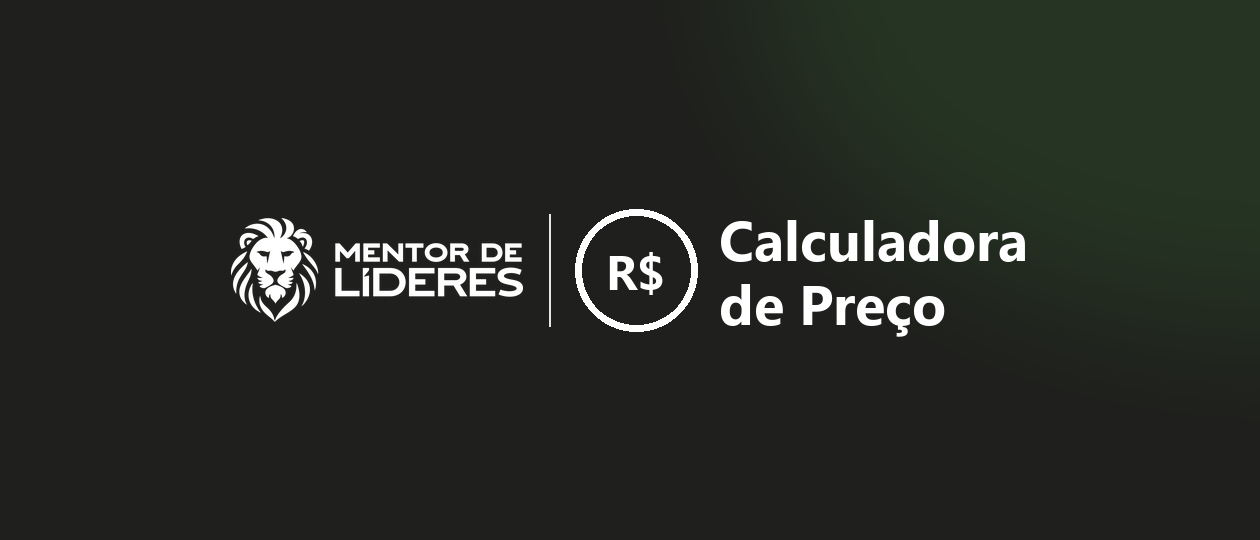
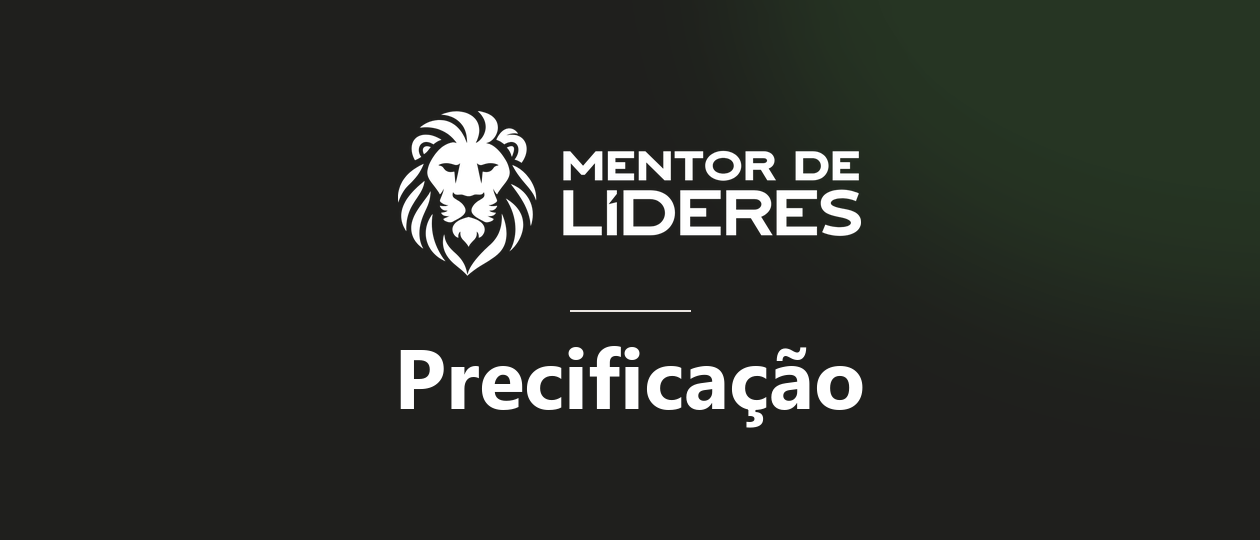
Precificação: novo nome da calculadora de preço e capa vertical sem o R$ (pedido do Carlos)

Changed region(s): [[0.1857, 0.2074, 0.8357, 0.8]]

diff --git a/preco.html b/preco.html
@@ -3,7 +3,7 @@
 <head>
 <meta charset="utf-8">
 <meta name="viewport" content="width=device-width,initial-scale=1,viewport-fit=cover">
-<title>Calculadora de preço · Mentor de Líderes</title>
+<title>Precificação · Mentor de Líderes</title>
 <meta name="claude:viewport-fit-sides" content="cover">
 <link rel="preconnect" href="https://fonts.googleapis.com">
 <link rel="preconnect" href="https://fonts.gstatic.com" crossorigin>
@@ -660,7 +660,7 @@ function htmlComo(){
       '<div class="lin"><span>Quanto cobra hoje</span><b>R$ 4.000</b></div>'+
       '<div class="lin"><span>O que vende e para quem: mentoria para produtores (pequena empresa)</span><b>régua R$ 3 a 63 mil</b></div></div>'+
     '<div class="seta" aria-hidden="true">→</div>'+
-    '<div class="passo"><div class="pn">2</div><div class="pt">A calculadora faz a conta</div>'+
+    '<div class="passo"><div class="pn">2</div><div class="pt">A ferramenta faz a conta</div>'+
       '<div class="lin"><span>10 pontos = valor visível, ponto da régua</span><b>R$ 21.700</b></div>'+
       '<div class="lin"><span>Sua hora pelo mercado, no seu nível</span><b>R$ 670</b></div>'+
       '<div class="lin"><span>Mínimo: 12 h × R$ 670 ÷ 0,77</span><b>R$ 10.500</b></div></div>'+
@@ -674,7 +674,7 @@ function htmlComo(){
 function telaCapa(){
   if(!TURMA){ telaSemTurma(); return; }
   app.innerHTML='<div class="tela">'+
-  '<p class="eyebrow">Mentor de Líderes · calculadora de preço</p>'+
+  '<p class="eyebrow">Mentor de Líderes · precificação</p>'+
   '<h1 class="titulo">Quanto vale o que você já construiu</h1>'+
   '<div class="serve">'+
     '<div class="sv"><span class="k">Objetivo</span><span class="v">Mostrar, com fatos, quanto vale o que você já construiu e transformar isso no preço da sua mentoria.</span></div>'+
@@ -688,7 +688,7 @@ function telaCapa(){
   '<label class="rot" for="f-nome">Seu nome completo</label><input class="campo" id="f-nome" autocomplete="name" placeholder="João da Silva" value="'+esc(ident.nome)+'"><p class="erro c" id="e-nome"></p>'+
   '<label class="rot" for="f-zap">Seu WhatsApp com DDD</label><input class="campo" id="f-zap" type="tel" inputmode="tel" autocomplete="tel" placeholder="(11) 99999-9999" value="'+esc(ident.zap)+'"><p class="zap-dica" id="d-zap">Cada WhatsApp faz o teste uma vez nesta turma.</p><p class="erro c" id="e-zap"></p>'+
   '<label class="rot" for="f-prod">Nome da sua mentoria ou produto <span>(opcional)</span></label><input class="campo" id="f-prod" placeholder="Mentoria Produtor Lucrativo" value="'+esc(s.exemplo?'':s.prodNome)+'">'+
-  '<label class="consent" for="f-consent"><input type="checkbox" id="f-consent"><span>Concordo que a equipe do Mentor de Líderes guarde minhas respostas e meu WhatsApp para melhorar esta calculadora e acompanhar meu plano. Não guardamos CPF nem faturamento.</span></label><p class="erro c" id="e-consent"></p>'+
+  '<label class="consent" for="f-consent"><input type="checkbox" id="f-consent"><span>Concordo que a equipe do Mentor de Líderes guarde minhas respostas e meu WhatsApp para melhorar esta ferramenta e acompanhar meu plano. Não guardamos CPF nem faturamento.</span></label><p class="erro c" id="e-consent"></p>'+
   '<button class="btn lg" id="b-comecar">Começar</button><div id="cx-espera"></div>'+
   '<button class="exemplo" id="b-exemplo"><span class="k">Ver o exemplo do João completo</span><span class="t">Mentoria para produtores rurais</span><span class="d">Cobra R$ 4.000; o que construiu vale <b>R$ 21.900</b></span></button>'+
   '</div>';
@@ -741,16 +741,16 @@ function barra(msg,pct){ return '<div class="pdfp" role="status"><div class="st"
 
 function telaSemTurma(){
   vista='capa';
-  app.innerHTML='<div class="tela"><p class="eyebrow">Mentor de Líderes · calculadora de preço</p>'+
+  app.innerHTML='<div class="tela"><p class="eyebrow">Mentor de Líderes · precificação</p>'+
     '<h1 class="titulo">Este link precisa vir da equipe do Mentor de Líderes</h1>'+
-    '<p class="contexto">Peça à equipe o link da sua turma para fazer a calculadora.</p>'+
+    '<p class="contexto">Peça à equipe o link da sua turma para fazer a precificação.</p>'+
     '</div>';
 }
 function telaAviso(t,d,b){
   avisoAtual={t:t,d:d,b:b||''}; vista='aviso'; telaAvisoAtual();
 }
 function telaAvisoAtual(){
-  app.innerHTML='<div class="tela"><p class="eyebrow">'+(MODO_VER?'Visão da equipe':'Mentor de Líderes · calculadora de preço')+'</p>'+
+  app.innerHTML='<div class="tela"><p class="eyebrow">'+(MODO_VER?'Visão da equipe':'Mentor de Líderes · precificação')+'</p>'+
     '<h1 class="enunciado">'+esc(avisoAtual.t)+'</h1>'+(avisoAtual.d?'<p class="contexto">'+esc(avisoAtual.d)+'</p>':'')+
     (avisoAtual.b?'<div class="acoes" style="margin-top:22px">'+avisoAtual.b+'</div>':'')+'</div>';
   var b=document.getElementById('b-de-novo'); if(b&&avisoAtual.fn) b.onclick=avisoAtual.fn;
@@ -758,7 +758,7 @@ function telaAvisoAtual(){
 function telaJaFez(){
   var q=ident.jaFez?fmtData(ident.jaFez):'';
   vista='jafez';
-  app.innerHTML='<div class="tela"><p class="eyebrow">Mentor de Líderes · calculadora de preço</p>'+
+  app.innerHTML='<div class="tela"><p class="eyebrow">Mentor de Líderes · precificação</p>'+
     '<h1 class="enunciado">Você já fez este teste nesta turma'+(q?' em '+esc(q):'')+'.</h1>'+
     '<p class="contexto">Para refazer, fale com a equipe.</p>'+
     '<div class="acoes" style="margin-top:22px"><button class="btn ghost" id="b-voltar-capa">Voltar</button></div></div>';
@@ -853,7 +853,7 @@ async function abrirVer(pin,auto){
   guardarPin(pin);
   telaEspera('Montando a devolutiva',80); await pausa();
   var c=linha&&linha.carga;
-  if(!cargaValida(c)){ telaAviso('Esta resposta não pode ser aberta aqui','Ela foi gravada num formato que esta página não lê. Fale com quem cuida da calculadora.'); return; }
+  if(!cargaValida(c)){ telaAviso('Esta resposta não pode ser aberta aqui','Ela foi gravada num formato que esta página não lê. Fale com a equipe do Mentor de Líderes.'); return; }
   s=Object.assign(novo(),c); delete s.v; s.nome=c.nome||linha.nome||''; s.exemplo=false;
   verInfo={id:linha.id,turma:linha.turma||'',quando:fmtData(linha.criado_em)};
   vista='resultado'; desenhar(); window.scrollTo(0,0);
@@ -927,7 +927,7 @@ function telaVenda(){
 function telaTempo(){
   var enc=[1,2,3,4,6,8,12,24], dur=[1,1.5,2,3,4,8], ext=[0,1,2,5,10];
   var g=ehGrupo(), revisita=s.encontros&&s.duracao&&s.extra!=null;
-  app.innerHTML='<div class="tela">'+cabecalho()+'<h1 class="enunciado">Quanto tempo seu o cliente recebe?</h1><p class="contexto">'+(g?'Conte o tempo da turma inteira. A calculadora divide pelo número de pessoas.':'Escolha em ordem: a próxima linha abre depois de cada resposta.')+'</p>'+
+  app.innerHTML='<div class="tela">'+cabecalho()+'<h1 class="enunciado">Quanto tempo seu o cliente recebe?</h1><p class="contexto">'+(g?'Conte o tempo da turma inteira. A conta divide pelo número de pessoas.':'Escolha em ordem: a próxima linha abre depois de cada resposta.')+'</p>'+
   '<div class="linha-t" id="l-enc"><span class="rot">Quantos encontros com você</span><div class="chips">'+enc.map(function(v){return '<button class="chip'+(s.encontros===v?' sel':'')+'" data-k="encontros" data-v="'+v+'">'+v+'</button>';}).join('')+'<button class="chip'+(s.encontros&&enc.indexOf(s.encontros)<0?' sel':'')+'" data-k="encontros" data-v="outro">outro</button></div>'+
     caixaOutro('ou-enc',false,'15',s.encontros&&enc.indexOf(s.encontros)<0?s.encontros:'')+'</div>'+
   '<div class="linha-t" id="l-dur"'+(s.encontros?'':' hidden')+'><span class="rot">Quanto dura cada encontro</span><div class="chips">'+dur.map(function(v){return '<button class="chip'+(s.duracao===v?' sel':'')+'" data-k="duracao" data-v="'+v+'">'+durTxt(v)+'</button>';}).join('')+'</div></div>'+
@@ -1210,7 +1210,7 @@ function htmlPapel(){
   var c=calcular(), P=c.cobra>0?c.cobra:0, g=c.g, hoje=new Date().toLocaleDateString('pt-BR');
   var band='<div class="band"><div class="e">Mentor de Líderes · devolutiva de preço</div><h1>'+esc(prodNome())+'</h1><p>'+(s.nome?esc(s.nome)+' · ':'')+esc(PRODUTOS[s.produto].t)+' · '+esc(MERCADOS[s.mercado].t)+' · vendida para '+esc(COMPRADORES[s.comprador].t.toLowerCase())+(g?' · turma de '+c.N:'')+'</p></div>';
   function sh(n,t){ return '<div class="ps2"><b>'+n+'</b><span>'+t+'</span></div>'; }
-  var rod=function(n){ return '<div class="rod"><span>Piloto · calculadora de preço do Mentor de Líderes</span><span>'+hoje+' · página '+n+' de 2</span></div>'; };
+  var rod=function(n){ return '<div class="rod"><span>Piloto · precificação do Mentor de Líderes</span><span>'+hoje+' · página '+n+' de 2</span></div>'; };
   var manch = htmlManchete(c).replace('class="manchete"','class="manch"').replace(/<div class="mk">/,'<div class="mk-p">').replace(/<div class="mt">/,'<div class="mt-p">');
   var fr=fraseAutoridade();
   var mapa='<div class="nvl"><b>'+c.nv.n+'</b><span>'+c.pts+' de '+MAXPTS+' pontos · '+esc(c.nv.d)+'</span></div><div class="mp">'+FATOS.map(function(f){ var o=f.ops[s.fatos[f.id]]; return '<div><span>'+esc(f.t)+': '+esc(o[0].toLowerCase())+'</span><span>'+o[1]+' de '+f.ops[0][1]+'</span></div>'; }).join('')+'</div>'+(fr?'<p class="lt" style="border-left:3px solid #8C6A2B;padding-left:10px;font-style:italic">'+esc(fr)+'</p>':'');

diff --git a/preco-painel.html b/preco-painel.html
@@ -1,6 +1,6 @@
 <!DOCTYPE html>
 <!--
-  Calculadora de preço do Mentor de Líderes · painel da equipe (produção, 30/10/2026)
+  Precificação do Mentor de Líderes · painel da equipe (produção, 30/10/2026)
   Padrão copiado do arquetipos-painel.html: login por PIN dos placares (guardado na sessão), link e mensagem por turma,
   lista por turma, exportação, exclusão confirmada na página.
   Tudo passa pelas funções preco_t_* (PIN em cada chamada): preco_t_turmas, preco_t_lista, preco_t_marcar, preco_t_excluir.
@@ -13,7 +13,7 @@
 <meta name="viewport" content="width=device-width, initial-scale=1, viewport-fit=cover">
 <meta name="theme-color" content="#0B1426">
 <meta name="robots" content="noindex">
-<title>Calculadora de preço · painel da equipe</title>
+<title>Precificação · painel da equipe</title>
 <link rel="preconnect" href="https://fonts.googleapis.com">
 <link rel="preconnect" href="https://fonts.gstatic.com" crossorigin>
 <link href="https://fonts.googleapis.com/css2?family=Cormorant+Garamond:wght@500;600&family=Inter:wght@400;500;600&display=swap" rel="stylesheet">
@@ -155,7 +155,7 @@ td input[type=text]{width:150px}
 <div class="faixa">Piloto · Mentor de Líderes</div>
 <header class="top">
   <div class="titles">
-    <span class="kicker">Calculadora de preço · Mentor de Líderes</span>
+    <span class="kicker">Precificação · Mentor de Líderes</span>
     <h1>Painel da equipe</h1>
   </div>
   <span class="spacer"></span>
@@ -245,7 +245,7 @@ td input[type=text]{width:150px}
   var COR_NIVEL = ['#6F7A92', '#A9915A', '#C9A45C', '#E8CB8B'];
   var PRODUTOS = {individual:'Mentoria individual', grupo:'Mentoria em grupo', premium:'Consultoria ou programa premium', imersao:'Imersão presencial'};
   var COMPRADORES = {pf:'Pessoa física', liberal:'Profissional liberal', pequena:'Pequena empresa', media:'Média ou grande empresa'};
-  // Os 10 fatos, na ordem e com os textos da calculadora (índice 0 = a melhor opção).
+  // Os 10 fatos, na ordem e com os textos da página do aluno (índice 0 = a melhor opção).
   var FATOS = [
     {id:'metodo', t:'Método próprio', ops:['Tenho','Em construção','Não']},
     {id:'mentoria', t:'Mentoria', ops:['Estruturada e já vendida','Já vendi, sem estrutura','Em construção','Ainda não']},
@@ -395,7 +395,7 @@ td input[type=text]{width:150px}
   function linkExemplo(){ return paginaIrma('?exemplo'); }
   function linkVer(id){ return paginaIrma('?ver=' + encodeURIComponent(id)); }
   function mensagemGrupo(){
-    return 'Líder, tem uma ferramenta nova para você: a Calculadora de Preço do Mentor de Líderes. '
+    return 'Líder, tem uma ferramenta nova para você: a Precificação do Mentor de Líderes. '
       + 'Leva uns 3 minutos, direto no celular. No final você vê a diferença entre o que cobra hoje e o que o seu trabalho vale. '
       + 'Responda por aqui: ' + linkTurma();
   }
@@ -489,7 +489,7 @@ td input[type=text]{width:150px}
             + '<span class="qt">' + o.dist[i] + (o.n ? ' · ' + Math.round(o.dist[i] / o.n * 100) + '%' : '') + '</span></div>';
         }).join('')
       + '</div><p class="dist-nota" id="k-sem"><b>' + (o.pctSem == null ? '–' : o.pctSem + '%') + '</b> ainda não vendeu ('
-      + o.semVenda + ' de ' + o.n + '). Para eles a calculadora mostra o preço para começar.</p>';
+      + o.semVenda + ' de ' + o.n + '). Para eles a ferramenta mostra o preço para começar.</p>';
   }
   function opcoes(lista, atual){
     var achou = false, h = lista.map(function(o){
